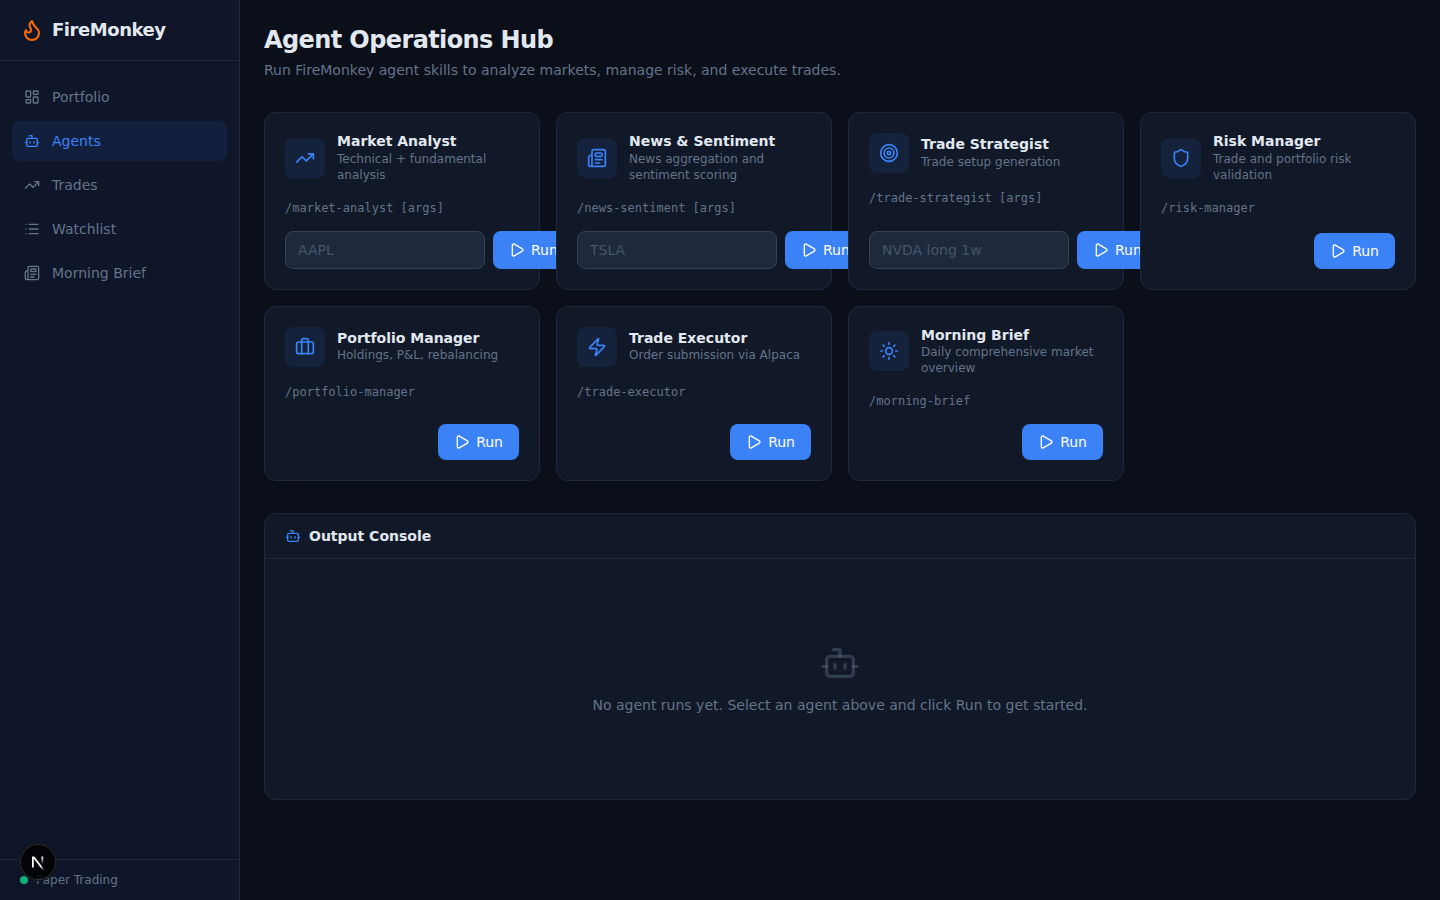
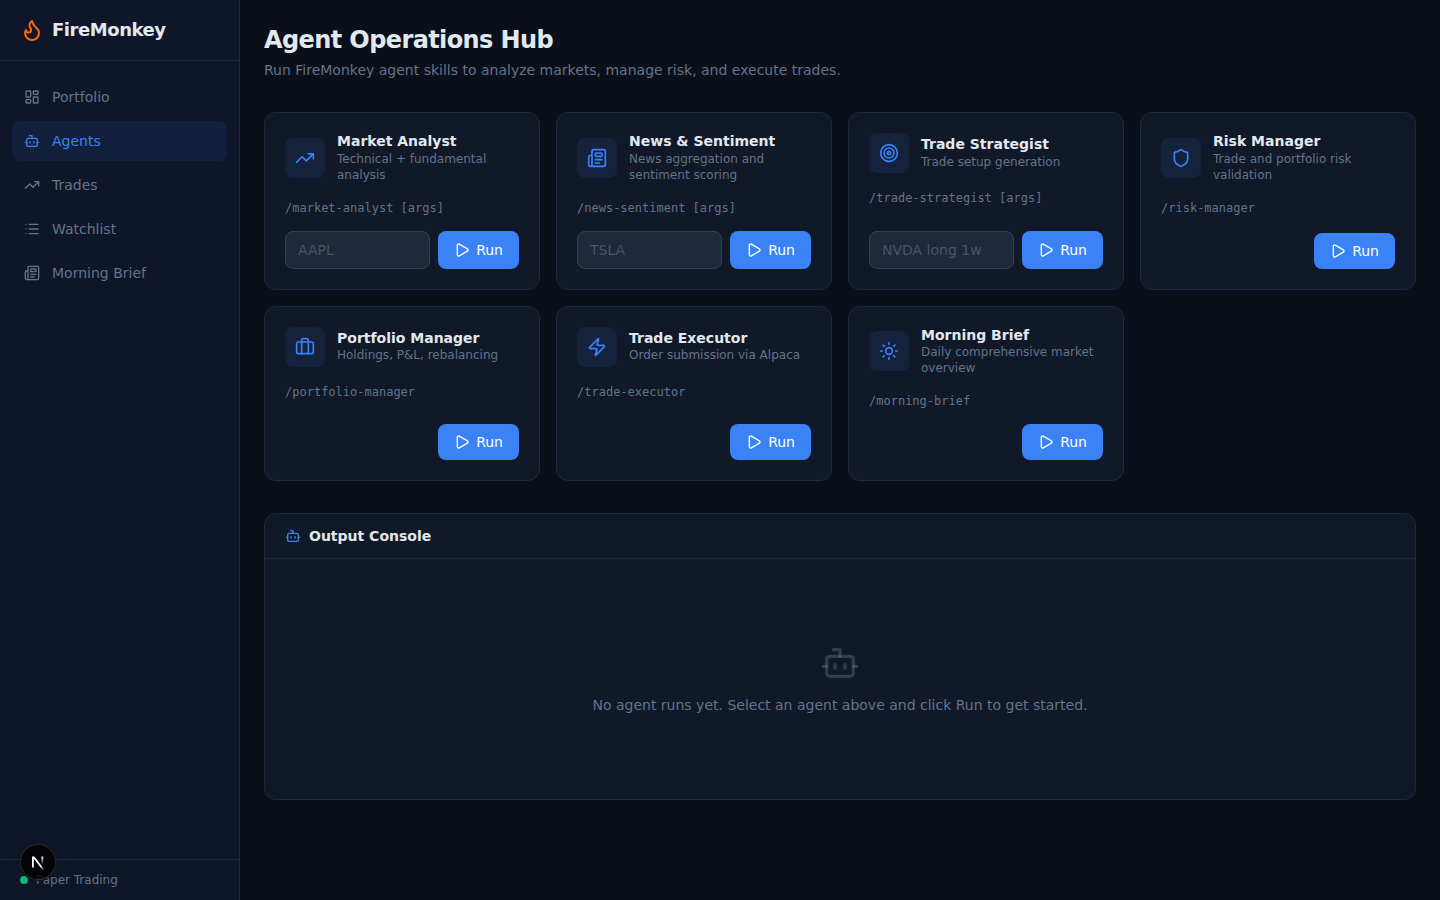
fix: align Run buttons in agent cards
- Add shrink-0 and whitespace-nowrap to Run button to prevent truncation
- Add min-w-0 to input field so it yields space to the button
- Update agents screenshot

https://claude.ai/code/session_01KWAMvfvZMAaidW6YxgDmCx

Changed region(s): [[0.6875, 0.2489, 0.8125, 0.3111], [0.2812, 0.2489, 0.4062, 0.3111], [0.5, 0.2489, 0.5938, 0.3111]]

diff --git a/dashboard/app/agents/page.tsx b/dashboard/app/agents/page.tsx
@@ -291,7 +291,7 @@ export default function AgentsPage() {
                       }
                     }}
                     disabled={isAnyRunning}
-                    className="flex-1 rounded-lg border border-input-border bg-input-bg px-3 py-2 text-sm text-foreground placeholder:text-muted/60 focus:border-accent focus:outline-none disabled:opacity-50"
+                    className="min-w-0 flex-1 rounded-lg border border-input-border bg-input-bg px-3 py-2 text-sm text-foreground placeholder:text-muted/60 focus:border-accent focus:outline-none disabled:opacity-50"
                   />
                 ) : (
                   <div className="flex-1" />
@@ -299,7 +299,7 @@ export default function AgentsPage() {
                 <button
                   onClick={() => runAgent(agent)}
                   disabled={isAnyRunning}
-                  className="flex items-center gap-1.5 rounded-lg bg-accent px-4 py-2 text-sm font-medium text-white transition-colors hover:bg-accent-hover disabled:cursor-not-allowed disabled:opacity-50"
+                  className="flex shrink-0 items-center gap-1.5 whitespace-nowrap rounded-lg bg-accent px-4 py-2 text-sm font-medium text-white transition-colors hover:bg-accent-hover disabled:cursor-not-allowed disabled:opacity-50"
                 >
                   {isRunning ? (
                     <Loader2 className="h-4 w-4 animate-spin" />
